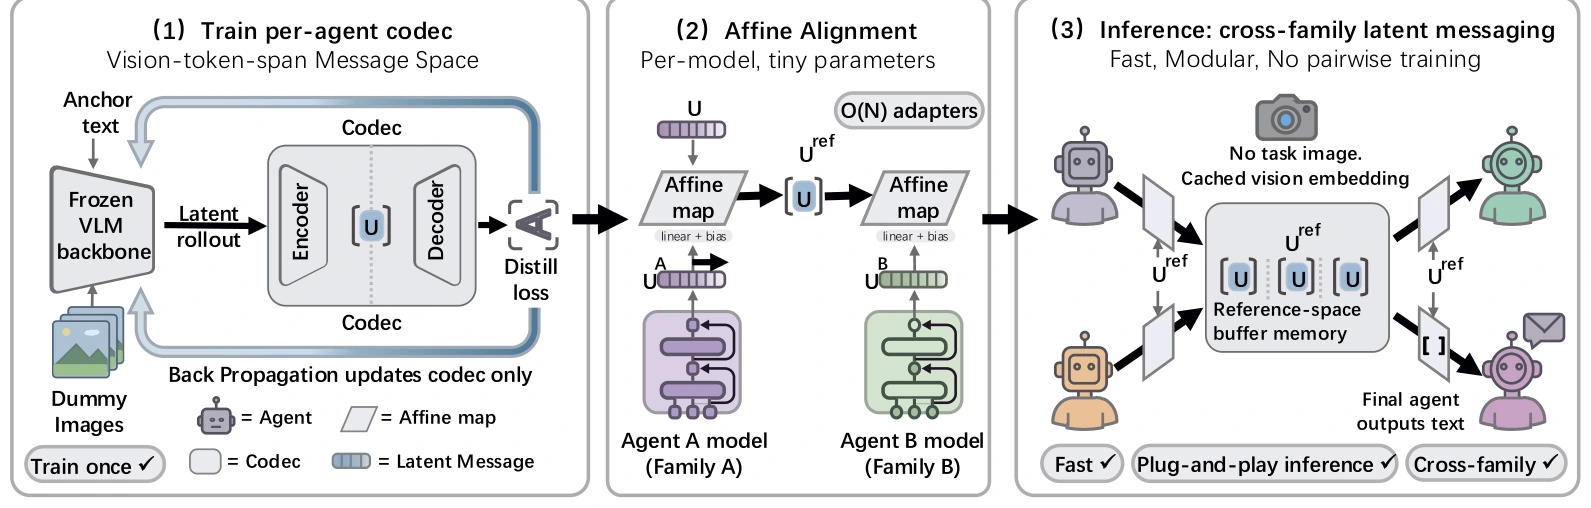
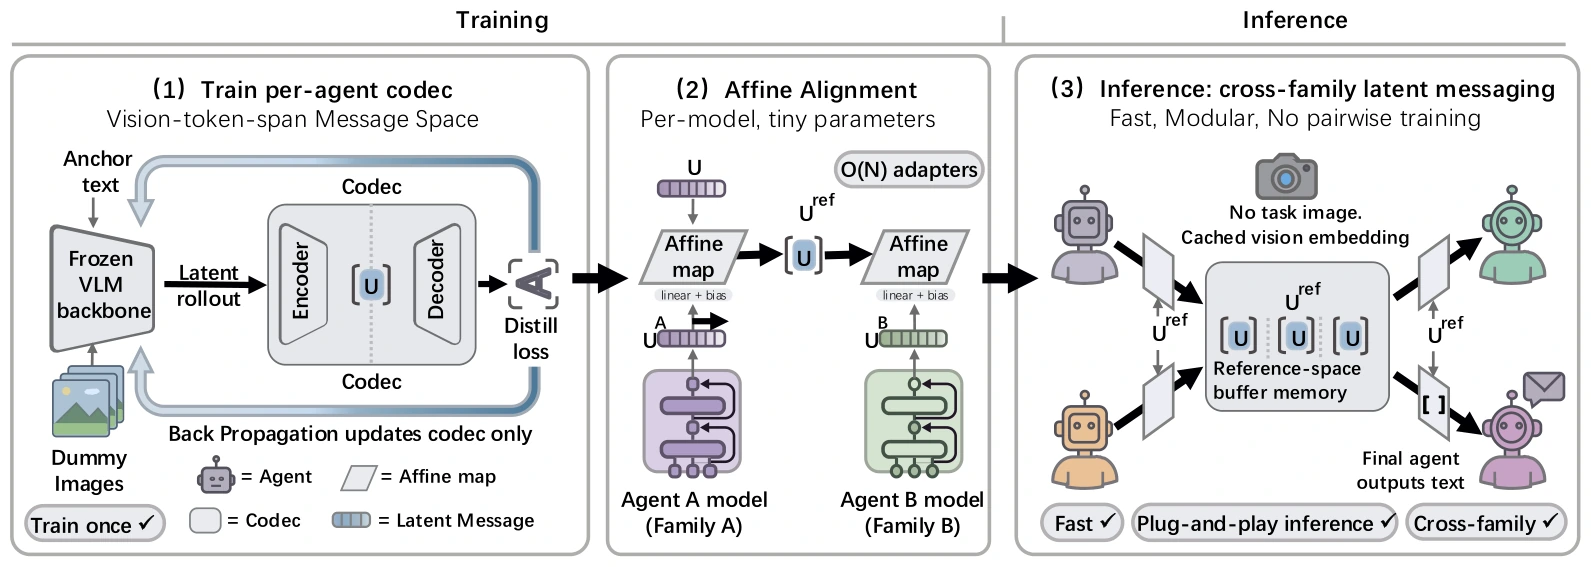
post: The Vision Wormhole 그림·표·수식 수정

Changed region(s): [[0.0, 0.0, 1.0, 1.0]]

diff --git a/_posts/2026-09-13-2602.15382.md b/_posts/2026-09-13-2602.15382.md
@@ -83,7 +83,11 @@ $$
 학습은 짧은 텍스트 앵커 $m$으로 한다. teacher 프롬프트는 $m$을 텍스트로 포함하고 student 프롬프트는 위 식으로 덮어쓴 더미 이미지를 포함하며, 백본을 고정한 채 프롬프트 경계의 hidden state, 다음 토큰 분포, 주입 크기를 맞추도록 codec만 학습한다.
 
 $$
-\mathcal{L}_{codec} = \lambda_h \left\lVert h_{vis} - \mathrm{sg}(h_{text}) \right\rVert_2^2 + \lambda_{kl} \tau^2\, \mathrm{KL}\left(\mathrm{softmax}(\ell_{text}/\tau) \,\Vert\, \mathrm{softmax}(\ell_{vis}/\tau)\right) + \lambda_{rms} \left(\mathrm{RMS}(\Delta_{inj}) - \mathrm{RMS}(\bar{X}^{(i)}_{img})\right)^2
+\begin{aligned}
+\mathcal{L}_{codec} = {} & \lambda_h \left\lVert h_{vis} - \mathrm{sg}(h_{text}) \right\rVert_2^2 \\
+& + \lambda_{kl} \tau^2\, \mathrm{KL}\left(\mathrm{softmax}(\ell_{text}/\tau) \,\Vert\, \mathrm{softmax}(\ell_{vis}/\tau)\right) \\
+& + \lambda_{rms} \left(\mathrm{RMS}(\Delta_{inj}) - \mathrm{RMS}(\bar{X}^{(i)}_{img})\right)^2
+\end{aligned}
 $$
 
 기본 설정은 $D=512$, $K_u=1024$, $T=1024$이고, 앵커 3,000개(약한 감독 설정은 90개)로 400 스텝 학습한다.
@@ -110,8 +114,10 @@ $$
 
 LatentMAS의 평가 구성인 9개 벤치마크에서 Qwen3-VL-2B, Gemma-3-4B, SmolVLM2-2.2B, LFM2.5-VL-1.6B로 만든 이종 구성(두 백본 다섯 가지, 네 백본 한 가지)을 Planner, Critic, Refiner, Judger 순차 워크플로로 실행하고, 같은 프롬프트의 TextMAS와 비교한다.
 
-![Table 1 이종 MAS 주 결과](/assets/img/posts/2602.15382/table1-main-heterogeneous.webp)
-_Table 1. 이종 VLM MAS 구성별 정확도와 추론 시간_
+![Table 1 이종 MAS 주 결과 앞 세 구성](/assets/img/posts/2602.15382/table1-main-heterogeneous-a.webp){: w="624" }
+
+![Table 1 이종 MAS 주 결과 뒤 세 구성](/assets/img/posts/2602.15382/table1-main-heterogeneous-b.webp){: w="700" }
+_Table 1. 이종 VLM MAS 구성별 정확도와 추론 시간 (원문 표를 좌우 두 부분으로 나눠 수록)_
 
 - **대부분 설정에서의 추론 시간 감소와 정확도 향상**
   - 대부분의 칸에서 추론 시간이 줄고 macro 평균 정확도 차이가 양수, 이득은 코드 생성에 집중
